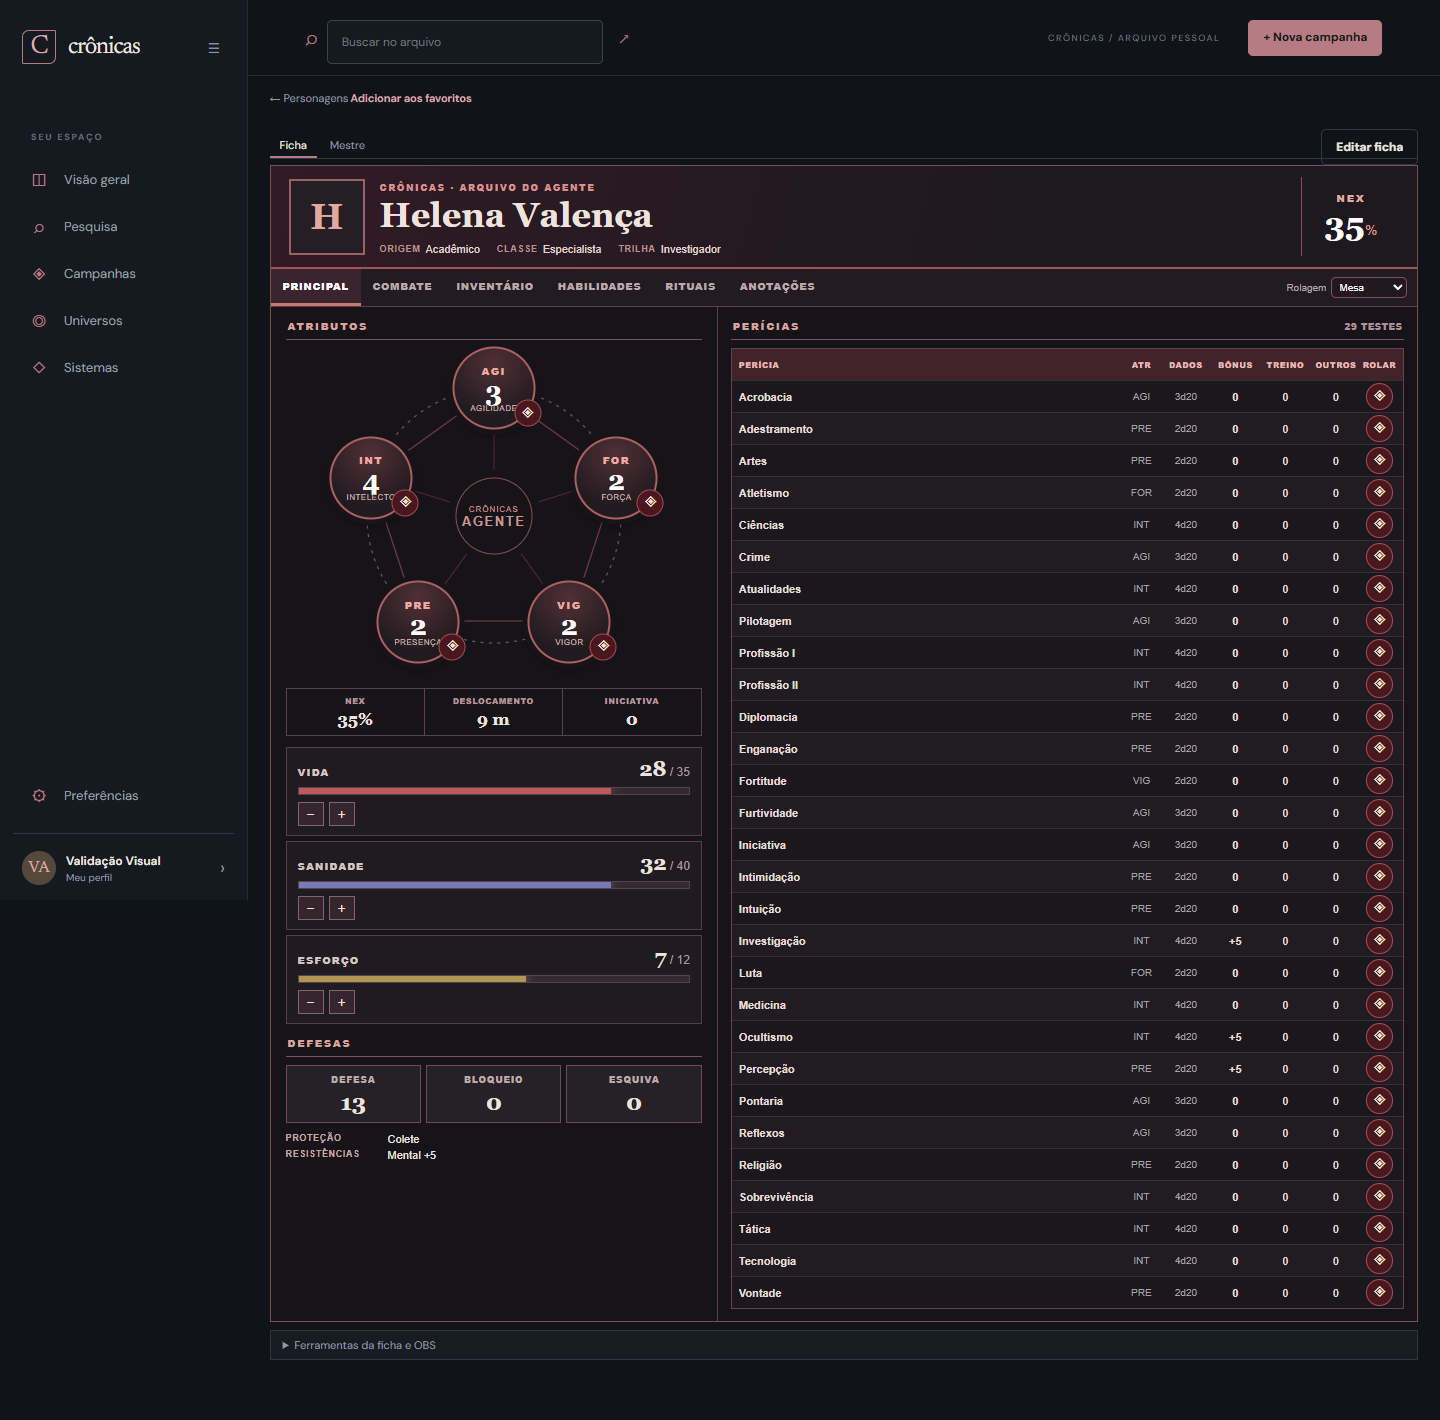
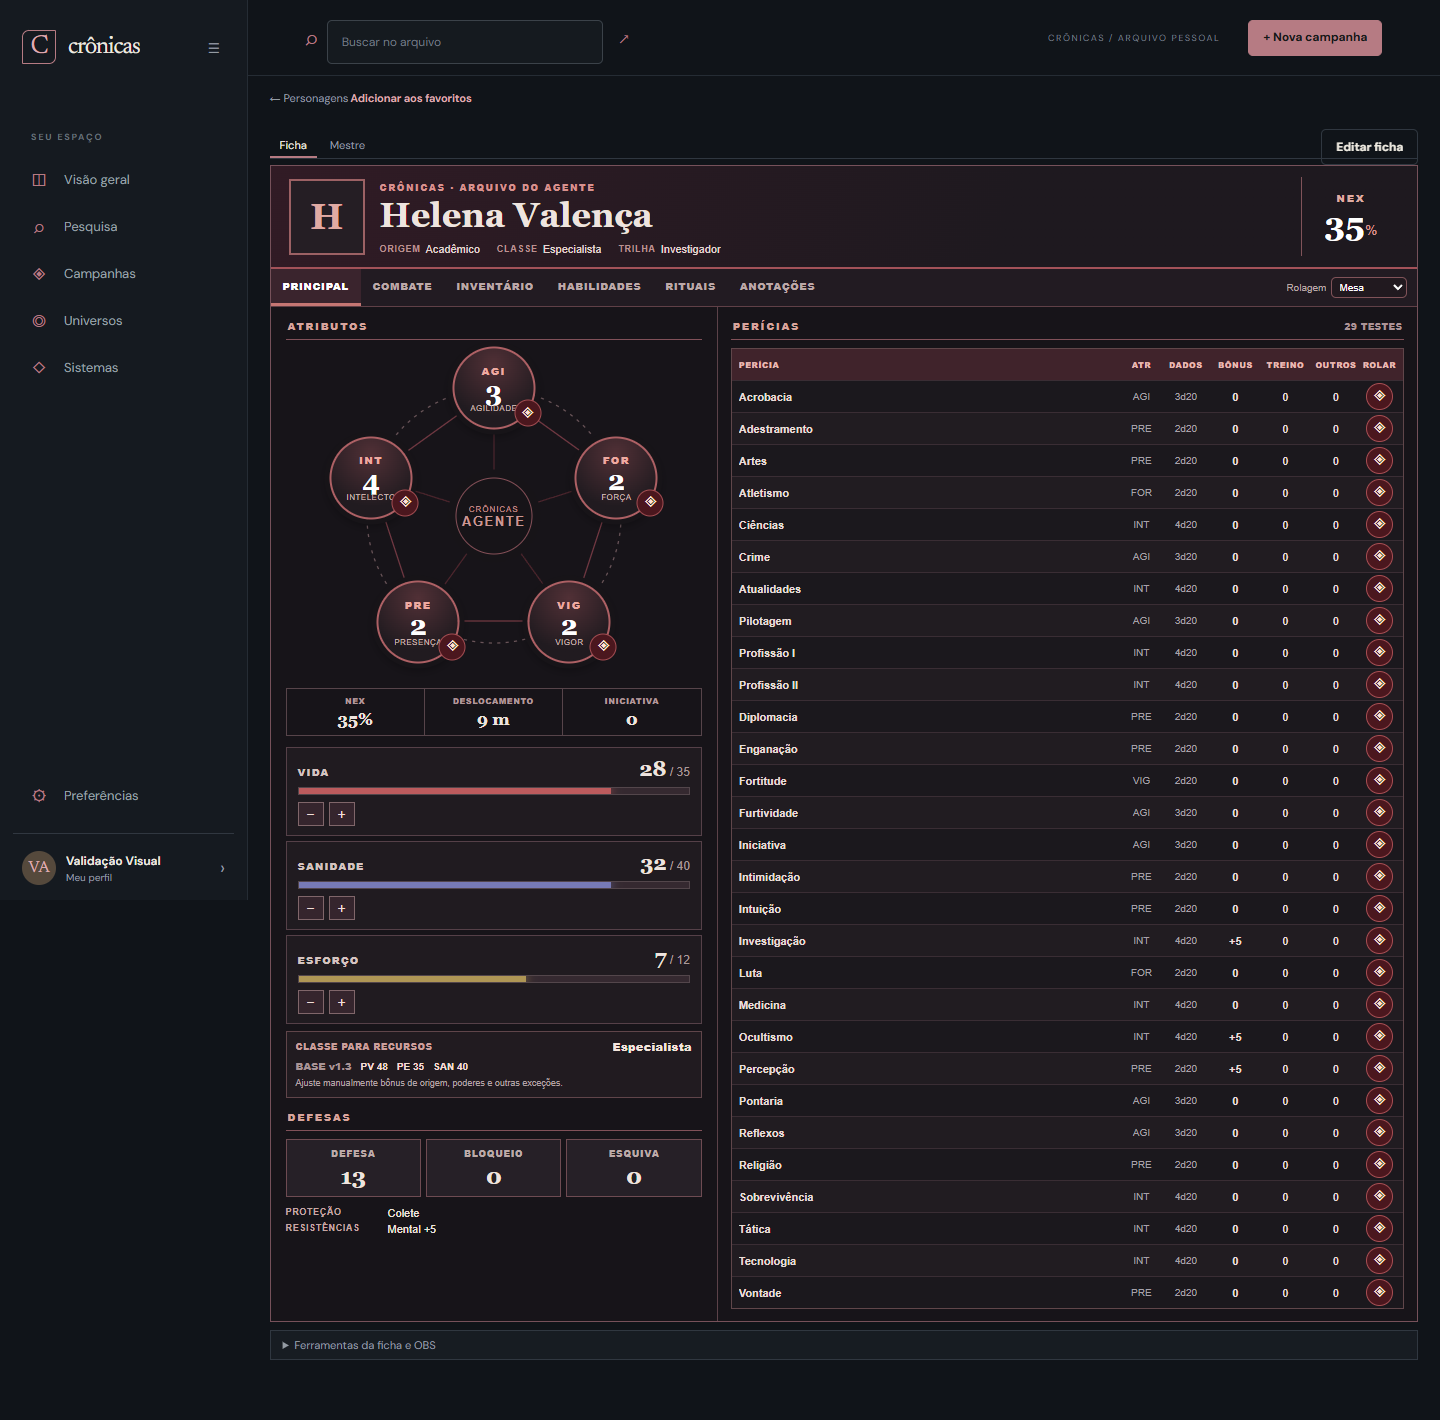
feat(sheets): add Order v1.3 class resource baselines

Changed region(s): [[0.1875, 0.7127, 0.4688, 0.8676]]

diff --git a/web/src/app/paranormal-sheet.component.ts b/web/src/app/paranormal-sheet.component.ts
@@ -8,7 +8,7 @@ import { CharacterHistoryPanelComponent } from './character-history.component';
 import { CharacterInventoryComponent } from './character-inventory.component';
 import { SheetCollectionFieldComponent } from './sheet-collection-field.component';
 import { SystemFieldComponent } from './specialized-sheet.component';
-import { paranormalFieldRoll } from './sheet-rules';
+import { paranormalFieldRoll, paranormalV13BaseResources } from './sheet-rules';
 import { SHEET_TEMPLATES } from './system-templates';
 
 type SheetMode = 'read' | 'edit' | 'print';
@@ -174,6 +174,7 @@ export class ParanormalSkillTableComponent {
       <div class="paranormal-left"><div class="paranormal-block-label">ATRIBUTOS</div><app-paranormal-attribute-wheel [system]="system" [draft]="draft" [character]="character" [mode]="mode" [visibility]="visibility()" (changed)="changed.emit()" (rolled)="lastRoll.set($event)" />
         <div class="paranormal-facts"><div><span>NEX</span><strong>{{ number('nex') }}%</strong></div><div><span>DESLOCAMENTO</span><strong>{{ number('deslocamento') }} m</strong></div><div><span>INICIATIVA</span><strong>{{ signed(number('iniciativa')) }}</strong></div></div>
         <div class="paranormal-resource-stack"><app-paranormal-resource [draft]="draft" key="health" label="Vida" [canEdit]="character.canEdit" [mode]="mode" (changed)="changed.emit()" /><app-paranormal-resource [draft]="draft" key="sanity" label="Sanidade" [canEdit]="character.canEdit" [mode]="mode" (changed)="changed.emit()" /><app-paranormal-resource [draft]="draft" key="mana" label="Esforço" [canEdit]="character.canEdit" [mode]="mode" (changed)="changed.emit()" /></div>
+        <div *ngIf="field('classe_regra')" class="paranormal-base"><label>CLASSE PARA RECURSOS <select *ngIf="canEditField('classe_regra'); else selectedRuleClass" aria-label="Classe para recursos" [ngModel]="textValue('classe_regra')" (ngModelChange)="setField('classe_regra',$event)" [ngModelOptions]="{standalone:true}"><option value="">Selecionar</option><option value="combatente">Combatente</option><option value="especialista">Especialista</option><option value="ocultista">Ocultista</option></select><ng-template #selectedRuleClass><strong>{{ ruleClassLabel() || '—' }}</strong></ng-template></label><div *ngIf="baseResources() as base" class="paranormal-base-values"><span>BASE v1.3</span><b>PV {{ base.pv }}</b><b>PE {{ base.pe }}</b><b>SAN {{ base.san }}</b><button *ngIf="mode === 'edit' && character.canEdit" type="button" (click)="applyBaseResources()">Aplicar valores iniciais</button></div><small *ngIf="baseResources()">Ajuste manualmente bônus de origem, poderes e outras exceções.</small></div>
         <div class="paranormal-defense"><div class="paranormal-block-label">DEFESAS</div><div class="defense-values"><div *ngFor="let key of ['defesa','bloqueio','esquiva']"><span>{{ label(key) }}</span><input *ngIf="canEditField(key); else defenseValue" type="number" [attr.aria-label]="label(key)" [ngModel]="number(key)" (ngModelChange)="setField(key,+$event)" [ngModelOptions]="{standalone:true}"><ng-template #defenseValue><strong>{{ field(key) ? number(key) : '—' }}</strong></ng-template></div></div></div>
         <div class="paranormal-secondary"><strong>PROTEÇÃO</strong><span>{{ textValue('protecao') || '—' }}</span><strong>RESISTÊNCIAS</strong><span>{{ textValue('resistencias') || '—' }}</span></div>
       </div>
@@ -198,6 +199,7 @@ export class ParanormalSkillTableComponent {
   .paranormal-primary{display:grid;grid-template-columns:minmax(305px,39%) minmax(0,61%);min-height:690px}.paranormal-left{padding:12px 15px;border-right:1px solid #5c4249;min-width:0}.paranormal-right{padding:12px 13px;min-width:0}
   .paranormal-block-label{display:flex;justify-content:space-between;align-items:baseline;border-bottom:1px solid #815159;padding:0 2px 6px;margin-bottom:8px;font-size:10px;font-weight:800;letter-spacing:.18em;color:#d7a49d}.paranormal-block-label small{font-size:9px;color:#ab9397;letter-spacing:.05em}
   .paranormal-facts{display:grid;grid-template-columns:repeat(3,minmax(0,1fr));gap:0;border:1px solid #57444a;margin:4px 0 11px}.paranormal-facts div{padding:6px 5px;text-align:center;border-right:1px solid #57444a}.paranormal-facts div:last-child{border:0}.paranormal-facts span{display:block;font-size:8px;font-weight:800;color:#b2999b;letter-spacing:.07em}.paranormal-facts strong{display:block;font:700 17px Georgia,serif;margin-top:3px}
+  .paranormal-base{margin-top:7px;padding:7px 9px;border:1px solid #60454a;background:#211b20}.paranormal-base label{display:flex;align-items:center;justify-content:space-between;gap:8px;font-size:9px;font-weight:800;letter-spacing:.05em;color:#c99f9c}.paranormal-base label strong{font-size:11px;color:#f4e5dd}.paranormal-base select{max-width:130px;padding:3px;background:#171419;color:#fff;border:1px solid #80545d}.paranormal-base-values{display:flex;align-items:center;flex-wrap:wrap;gap:5px 9px;margin-top:5px;font-size:10px}.paranormal-base-values span{color:#a89496;font-weight:800}.paranormal-base-values b{color:#f5ddd4;font-variant-numeric:tabular-nums}.paranormal-base-values button{margin-left:auto;padding:3px 7px;border:1px solid #9d6568;background:#4b252d;color:#fff;font-size:10px;cursor:pointer}.paranormal-base-values button:focus-visible,.paranormal-base select:focus-visible{outline:2px solid #e6a29c;outline-offset:2px}.paranormal-base>small{display:block;margin-top:5px;color:#b3a1a4;font-size:9px;line-height:1.3}
   .paranormal-resource-stack{display:grid;gap:5px}.paranormal-defense{margin-top:12px}.defense-values{display:grid;grid-template-columns:repeat(3,minmax(0,1fr));gap:5px}.defense-values>div{background:#262027;border:1px solid #6e4b52;text-align:center;padding:7px 4px}.defense-values span{display:block;font-size:9px;font-weight:800;letter-spacing:.09em;text-transform:uppercase;color:#bcaaa8}.defense-values strong{display:block;font:700 23px Georgia,serif;margin-top:3px}.defense-values input{width:55px;margin:4px auto 0;text-align:center;background:#1c171b;color:#fff;border:1px solid #80545d}
   .paranormal-secondary{display:grid;grid-template-columns:94px minmax(0,1fr);gap:4px 8px;margin-top:10px;font-size:11px}.paranormal-secondary strong{color:#c6a7a5;font-size:9px;letter-spacing:.07em}.paranormal-secondary span{white-space:pre-wrap;overflow-wrap:anywhere}
   .paranormal-detail{padding:16px 18px;display:grid;gap:14px;min-height:500px}.paranormal-detail h2{margin:0 0 3px;color:#eee2de;font:600 24px Georgia,serif;border-bottom:1px solid #80545d;padding-bottom:8px}.paranormal-combat-grid{display:grid;grid-template-columns:36% minmax(0,1fr);gap:18px}.paranormal-combat-grid>div{min-width:0}.paranormal-combat-grid .paranormal-secondary{display:grid;grid-template-columns:repeat(2,minmax(0,1fr))}.paranormal-inline-fields{display:grid;grid-template-columns:repeat(3,minmax(0,1fr));gap:8px}.paranormal-detail label{font-size:12px;color:#c8b4b0}.paranormal-detail textarea{display:block;width:100%;background:#211b20;color:#fff;border:1px solid #735158}.paranormal-detail p{white-space:pre-wrap}
@@ -224,6 +226,9 @@ export class ParanormalSheetComponent {
   label(key: string) { return this.field(key)?.label || ({defesa:'Defesa',bloqueio:'Bloqueio',esquiva:'Esquiva'} as Record<string,string>)[key] || key; }
   number(key: string) { const value = this.draft.fields[key]; return typeof value === 'number' ? value : 0; }
   textValue(key: string) { const value = this.draft.fields[key]; return typeof value === 'string' ? value : ''; }
+  ruleClassLabel() { return ({ combatente: 'Combatente', especialista: 'Especialista', ocultista: 'Ocultista' } as Record<string, string>)[this.textValue('classe_regra')] || ''; }
+  baseResources() { return this.system.rulesetVersion === '1.3' && this.field('classe_regra') ? paranormalV13BaseResources(this.textValue('classe_regra'), this.number('nex'), this.number('vigor'), this.number('presenca')) : null; }
+  applyBaseResources() { const base = this.baseResources(); if (!base || this.mode !== 'edit' || !this.character.canEdit) return; Object.assign(this.draft, { health: base.pv, maxHealth: base.pv, mana: base.pe, maxMana: base.pe, sanity: base.san, maxSanity: base.san }); this.changed.emit(); }
   signed(value: number) { return value > 0 ? `+${value}` : `${value}`; }
   canEditField(key: string) { const field = this.field(key); return this.mode === 'edit' && this.character.canEdit && !!field && !field.formula && (field.editRole !== 'gm' || this.isMaster); }
   setField(key: string, value: string | number) { if (!this.canEditField(key)) return; this.draft.fields[key] = value; this.changed.emit(); }

diff --git a/web/src/app/system-templates.ts b/web/src/app/system-templates.ts
@@ -65,6 +65,7 @@ const orderSkills: [string, string, string][] = [
 ];
 const orderFields: SystemField[] = [
   textField('aparencia', 'Aparência', 'Identidade'), textField('afinidade', 'Afinidade', 'Identidade'),
+  { key: 'classe_regra', label: 'Classe para recursos', section: 'Identidade', type: 'select', options: ['combatente', 'especialista', 'ocultista'], span: 3, min: null, max: null, defaultValue: null },
   longField('vinculos', 'Vínculos e histórico', 'Identidade'),
   listField('condicoes', 'Condições e estados', 'Combate'),
   listField('proficiencias', 'Proficiências', 'Combate'),
@@ -177,7 +178,7 @@ const cocFields: SystemField[] = [
 ];
 
 export const SHEET_TEMPLATES: SheetTemplate[] = [
-  { id: 'ordem_paranormal', version: 4, rulesetVersion: '1.3', name: 'Ordem Paranormal RPG', summary: 'Painel de agente com atributos, perícias detalhadas, recursos, defesa, ataques e rituais.', sourceUrl: 'https://jamboeditora.com.br/wp-content/uploads/woocommerce_uploads/2023/02/jamboeditora-ordem-paranormal-ficha-de-personagem-oeuvst.pdf', fields: orderFields,
+  { id: 'ordem_paranormal', version: 5, rulesetVersion: '1.3', name: 'Ordem Paranormal RPG', summary: 'Painel de agente com atributos, perícias detalhadas, recursos, defesa, ataques e rituais.', sourceUrl: 'https://jamboeditora.com.br/wp-content/uploads/woocommerce_uploads/2023/02/jamboeditora-ordem-paranormal-ficha-de-personagem-oeuvst.pdf', fields: orderFields,
     layout: makeLayout(orderFields, [
       { id: 'dossie', title: 'Dossiê do agente', items: [identity(), portrait(), ...sectionKeys(orderFields, 'Identidade'), 'nex', resource('health', 'PV', 4), resource('mana', 'PE', 4), resource('sanity', 'SAN', 4), highlight('defesa', 4), 'bloqueio', 'esquiva', 'iniciativa', 'deslocamento', 'equip_defesa', 'outros_defesa'] },
       { id: 'aptidoes', title: 'Aptidões e ação', items: [note('nota_aptidoes', 'Rolagens', 'Ajuste os atributos e bônus de perícia conforme sua mesa.'), ...sectionKeys(orderFields, 'Atributos'), ...orderSkills.filter(([, , attribute]) => ['agilidade', 'forca', 'vigor'].includes(attribute)).map(([key]) => `per_${key}`)] },

diff --git a/web/src/app/sheet-renderer-registry.ts b/web/src/app/sheet-renderer-registry.ts
@@ -15,6 +15,7 @@ const renderers: SheetRendererDefinition[] = [
   { id: 'ordem_paranormal', version: 2, required: ['nex', 'agilidade', 'forca', 'intelecto', 'presenca', 'vigor', 'defesa'], resources: [{ key: 'health', label: 'PV' }, { key: 'mana', label: 'PE' }, { key: 'sanity', label: 'SAN' }] },
   { id: 'ordem_paranormal', version: 3, required: ['nex', 'agilidade', 'forca', 'intelecto', 'presenca', 'vigor', 'defesa'], resources: [{ key: 'health', label: 'PV' }, { key: 'mana', label: 'PE' }, { key: 'sanity', label: 'SAN' }] },
   { id: 'ordem_paranormal', version: 4, required: ['nex', 'agilidade', 'forca', 'intelecto', 'presenca', 'vigor', 'defesa'], resources: [{ key: 'health', label: 'PV' }, { key: 'mana', label: 'PE' }, { key: 'sanity', label: 'SAN' }] },
+  { id: 'ordem_paranormal', version: 5, required: ['nex', 'agilidade', 'forca', 'intelecto', 'presenca', 'vigor', 'defesa', 'classe_regra'], resources: [{ key: 'health', label: 'PV' }, { key: 'mana', label: 'PE' }, { key: 'sanity', label: 'SAN' }] },
   { id: 'dnd_5e', version: 1, required: ['nivel', 'forca', 'destreza', 'constituicao', 'inteligencia', 'sabedoria', 'carisma', 'classe_armadura'], resources: [{ key: 'health', label: 'HP' }] },
   { id: 'dnd_5e', version: 2, required: ['nivel', 'forca', 'destreza', 'constituicao', 'inteligencia', 'sabedoria', 'carisma', 'classe_armadura'], resources: [{ key: 'health', label: 'HP' }] },
   { id: 'tormenta20', version: 1, required: ['nivel', 'forca', 'destreza', 'defesa'], resources: [{ key: 'health', label: 'PV' }, { key: 'mana', label: 'PM' }] },

diff --git a/web/src/app/sheet-rules.ts b/web/src/app/sheet-rules.ts
@@ -62,6 +62,21 @@ export function paranormalFieldRoll(expression: string, values: SheetValues): st
   return fieldRoll(expression, values);
 }
 
+export type ParanormalClass = 'combatente' | 'especialista' | 'ocultista';
+
+// Baseline only: origins, powers and other choices can change these totals.
+export function paranormalV13BaseResources(characterClass: string, nex: number, vigor: number, presenca: number): { pv: number; pe: number; san: number } | null {
+  const progression: Record<ParanormalClass, { pv: number; pe: number; san: number; pvStep: number; peStep: number; sanStep: number }> = {
+    combatente: { pv: 20, pe: 2, san: 12, pvStep: 4, peStep: 2, sanStep: 3 },
+    especialista: { pv: 16, pe: 3, san: 16, pvStep: 3, peStep: 3, sanStep: 4 },
+    ocultista: { pv: 12, pe: 4, san: 20, pvStep: 2, peStep: 4, sanStep: 5 }
+  };
+  const base = progression[characterClass as ParanormalClass];
+  if (!base || ![nex, vigor, presenca].every(Number.isInteger) || nex < 5 || nex > 99 || nex !== 99 && nex % 5 !== 0 || vigor < 0 || presenca < 0) return null;
+  const steps = nex === 99 ? 19 : (nex - 5) / 5;
+  return { pv: base.pv + vigor + steps * (base.pvStep + vigor), pe: base.pe + presenca + steps * (base.peStep + presenca), san: base.san + steps * base.sanStep };
+}
+
 const dnd2014LevelXp = [0, 300, 900, 2700, 6500, 14000, 23000, 34000, 48000, 64000, 85000, 100000, 120000, 140000, 165000, 195000, 225000, 265000, 305000, 355000];
 
 export function dnd2014NextLevelXp(level: number): number | null {

diff --git a/docs/rules-audit.md b/docs/rules-audit.md
@@ -4,7 +4,7 @@ Os PDFs na raiz do projeto foram consultados localmente em 28/10/2026. Permanece
 
 | Sistema e edição identificada | Material consultado | Mecânica incorporada nesta etapa |
 | --- | --- | --- |
-| Ordem Paranormal RPG, 3ª edição v1.3 (dezembro de 2024) | `ordem-paranormal-rpg-v1-3-lyfxjj (1).pdf`, capítulos de personagem e testes; ficha automática OP como conferência de campos | Atributo 0 usa 2d20 e conserva o menor; atributos positivos usam quantidade de d20 igual ao valor e conservam o maior. Defesa já derivava de 10 + AGI + modificadores. Novo template v4 registra a edição. |
+| Ordem Paranormal RPG, 3ª edição v1.3 (dezembro de 2024) | `ordem-paranormal-rpg-v1-3-lyfxjj (1).pdf`, capítulos de personagem e testes; ficha automática OP como conferência de campos | Atributo 0 usa 2d20 e conserva o menor; atributos positivos usam quantidade de d20 igual ao valor e conservam o maior. Defesa já derivava de 10 + AGI + modificadores. O template v5 acrescenta classe estruturada e sugere PV, PE e SAN básicos por classe e NEX, incluindo o avanço de 95% para 99%. Aplicar os valores é uma ação explícita. |
 | D&D 5e, edição 2014 | `dd-5e-livro-do-jogador-fundo-branco-biblioteca-c3a9lfica.pdf`, criação de personagem e avanço; ficha automática como conferência de campos | Modelo novo marcado como 2014 (v2), com modificadores de atributo, proficiência, resistências e perícias já calculados. A ficha permite editar XP e mostra o limiar para o próximo nível da edição 2014. O modelo v1, marcado 2024, continua disponível para fichas existentes e não herda regras específicas de 2014. |
 | Tormenta20, Jogo do Ano, 2ª edição, 3ª impressão v1.3 (outubro de 2024) | `T20 - Livro Básico.pdf`, capítulos de personagem, perícias e combate; ficha automática Jogo do Ano como conferência | Modelo v2 calcula bônus de treinamento por faixa (2/4/6), perícia = metade do nível + atributo + treino e Defesa = 10 + DES + armadura + escudo + outros. O botão T em cada perícia altera o treino e dispara salvamento. |
 | Call of Cthulhu, 7ª edição | `chamado-de-cthulhu-livro-básico 7E.pdf`, criação do investigador; `Guia do Investigador - 7E.pdf` e ficha editável moderna como conferência | Além de metade/quinto e testes percentuais existentes, o modelo v2 sugere PV inicial = piso((CON + SIZ)/10), PM inicial = piso(POW/5) e SAN inicial = POW. O jogador aplica os valores à ficha explicitamente durante a criação. |
@@ -21,7 +21,7 @@ As fórmulas novas passam pelo mesmo interpretador limitado no cliente e na API.
 
 ## Regras ainda não automatizadas
 
-- Ordem Paranormal: PV, PE e SAN por classe e NEX; trilhas, poderes, rituais, dano e condições exigem escolhas e exceções que não podem ser inferidas apenas do nome da classe.
+- Ordem Paranormal: totais básicos de PV, PE e SAN agora são sugeridos; bônus de origem, poderes, transcendência, trilhas, rituais, dano e condições exigem escolhas e exceções que não podem ser inferidas apenas do nome da classe. Personagens existentes preservam seus recursos até o jogador selecionar a classe estruturada e aplicar os valores.
 - D&D 5e: PV por classe, equipamentos, magia por classe, talentos, ações e progressão completa; diferenças exclusivas de 2024 seguem sem implementação neste material de 2014.
 - Tormenta20: PV/PM por classe, treino concedido por classe/origem, restrições de perícias, penalidades de armadura, ataques e poderes. Outros modificadores de perícia continuam configuráveis pelo autor do sistema.
 - Call of Cthulhu: criação por ocupação/idade, movimento, bônus de dano, constituição, desenvolvimento, sorte opcional, ferimentos e sanidade máxima por Mitos. O botão de valores iniciais não deve ser usado para redefinir um investigador já progredido.

diff --git a/docs/sheets.md b/docs/sheets.md
@@ -8,7 +8,7 @@ O frontend escolhe o renderizador em `sheet-renderer-registry.ts` usando **ID + 
 
 `system-templates.ts` contém as definições iniciais **somente para sistemas já presentes no catálogo do projeto**. As fichas usam nomenclatura e campos estruturais consultados em fontes oficiais, sem texto de livros, arte, fontes ou regras presumidas. Fórmulas só são cadastradas quando a regra está identificada. O template não é uma implementação integral de todas as opções de criação de personagem publicadas em cada livro. A versão das regras é guardada para permitir diferenças futuras.
 
-Ordem Paranormal tem o template v4 identificado com as regras 1.3. Fichas v1–v3 continuam resolvidas sem troca automática de edição. A ficha principal usa uma roda pentagonal de atributos, lista compacta de perícias, controles rápidos de PV/SAN/PE e defesa. Atributo 0 rola 2d20 e conserva o menor resultado. D&D 5e usa seis caixas individuais de atributos, colunas de resistências, perícias e combate, além de abas de ações, magias, inventário e características. O novo template v2 está identificado como edição 2014 e exibe o limiar de XP para o próximo nível; a v1 existente permanece marcada 2024. Os controles alteram o `CharacterInput` usado pelo autosave existente; inventário e habilidades continuam nos endpoints próprios.
+Ordem Paranormal tem o template v5 identificado com as regras 1.3. Fichas v1–v4 continuam resolvidas sem troca automática de edição. A ficha principal usa uma roda pentagonal de atributos, lista compacta de perícias, controles rápidos de PV/SAN/PE e defesa. Atributo 0 rola 2d20 e conserva o menor resultado. A classe estruturada permite calcular totais básicos de PV, PE e SAN por NEX; o botão aplica esses valores durante a criação, sem redefinir fichas antigas. D&D 5e usa seis caixas individuais de atributos, colunas de resistências, perícias e combate, além de abas de ações, magias, inventário e características. O novo template v2 está identificado como edição 2014 e exibe o limiar de XP para o próximo nível; a v1 existente permanece marcada 2024. Os controles alteram o `CharacterInput` usado pelo autosave existente; inventário e habilidades continuam nos endpoints próprios.
 
 Call of Cthulhu 7e usa uma matriz percentual de características com metade e quinto calculados, testes por `percentileRoll`, perícias compactas, HP/SAN/Sorte e dossiê de investigação. A v2 sugere valores iniciais de PV, PM e SAN derivados das características; o jogador os aplica explicitamente. Tormenta20 usa atributos como modificadores, PV/PM, Defesa, ataques e perícias compactas. A v2 Jogo do Ano calcula treino, Defesa e bônus de perícias. A v1 continua com valores manuais para não reescrever dados de personagens existentes. A auditoria de fontes e limites está em `docs/rules-audit.md`.
 
